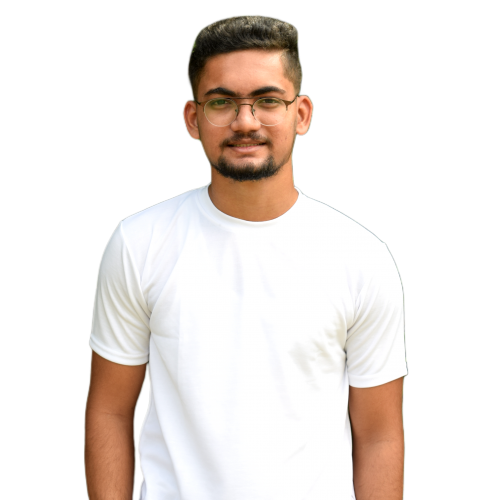
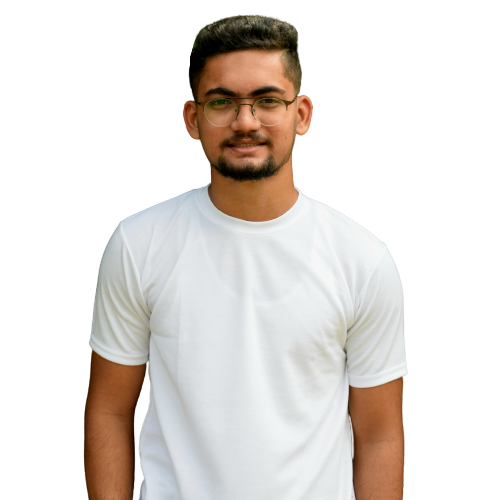
Added new backend link and changed my photo

diff --git a/src/Pages/ContactPage/contact.js b/src/Pages/ContactPage/contact.js
@@ -16,7 +16,7 @@ const ContactPage = () => {
 
     useEffect(() => {
         window.scrollTo(0, 0)
-      }, [])
+    }, [])
 
     const namevalid = "^[a-zA-Z.,?\\s]*$";
     const emailvalid = "^[a-zA-Z0-9.!#$%&'*+/=?^_`{|}~-]+@[a-zA-Z0-9-]+(?:\.[a-zA-Z0-9-]+)*$";
@@ -34,7 +34,7 @@ const ContactPage = () => {
         SetEmail('')
         SetEnquiry('')
         toast.success("Your Inquiry Is Reached To Me, I Will Contact You Soon!!");
-        const response = await fetch('https://anishpatel-portfolio-backend.herokuapp.com/api/', {
+        const response = await fetch('https://my-website-backend-one.vercel.app/api/', {
             method: 'POST',
             mode: 'cors',
             body: JSON.stringify(data),
